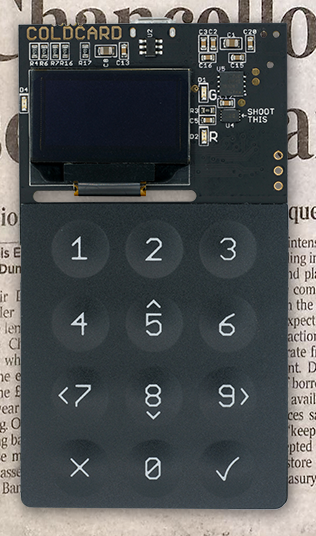
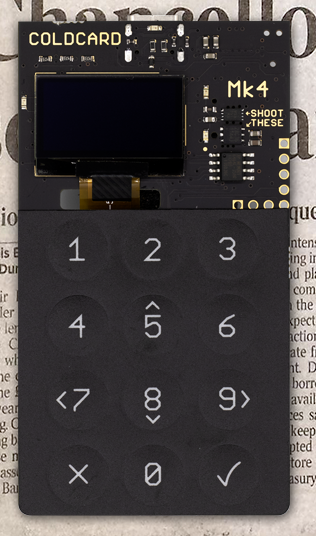
mk4 simulator look

diff --git a/unix/simulator.py b/unix/simulator.py
@@ -3,11 +3,14 @@
 # (c) Copyright 2018 by Coinkite Inc. This file is covered by license found in COPYING-CC.
 #
 # Simulate the hardware of a Coldcard. Particularly the OLED display (128x32) and 
-# the numberpad. 
+# the number pad. 
 #
 # This is a normal python3 program, not micropython. It communicates with a running
 # instance of micropython that simulates the micropython that would be running in the main
 # chip.
+#
+# Limitations:
+# - USB light not fully implemented, because happens at irq level on real product
 #
 import os, sys, tty, pty, termios, time, pdb, tempfile
 import subprocess
@@ -22,7 +25,7 @@ MPY_UNIX = 'l-port/micropython'
 UNIX_SOCKET_PATH = '/tmp/ckcc-simulator.sock'
 
 # top-left coord of OLED area; size is 1:1 with real pixels... 128x64 pixels
-OLED_ACTIVE = (50, 78)
+OLED_ACTIVE = (46, 85)
 
 # keypad touch buttons
 KEYPAD_LEFT = 52
@@ -47,7 +50,7 @@ class OLEDSimulator:
         self.mv = sdl2.ext.PixelView(self.sprite)
 
     def render(self, window, buf):
-        # take a full-screen update of the OLED contents and display
+        # do a full-screen update of the OLED contents and display
         assert len(buf) == 1024, len(buf)
 
         for y in range(0, 64, 8):
@@ -108,14 +111,14 @@ class OLEDSimulator:
 
 class BareMetal:
     #
-    # Use a real Coldcard device's bootrom and SE
+    # Use a real Coldcard device's bootrom and Secure Elements
     #
     def __init__(self, req_r, resp_w):
         self.open()
         self.request = open(req_r, 'rt', closefd=0)
         self.response = open(resp_w, 'wb', closefd=0, buffering=0)
 
-    def open(self, name='usbserial-FTD2MILQ'):
+    def open(self, name='usbserial-AQ00T1SJ'):
         # return a file-descriptor ready to be used for access to a real Coldcard's console I/O.
         # - assume only one coldcard
         import sys, serial
@@ -184,7 +187,7 @@ except:
 
     def read_sflash(self):
         # capture contents of SPI flash (settings area only: last 128k)
-        # XXX not working
+        # XXX not working, and not for Mk4
         self.sio.write(b'''\x05\
 busy(1)
 from main import sf
@@ -283,7 +286,9 @@ dis.fullscreen("BareMetal")
         assert not rv.startswith('===')
 
         if 1:
-            print(f"Callgate(method={method}, {len(buf_io) if buf_io else 0} bytes, arg2={arg2}) => rv={rv}")
+            # trace output
+            print(f"Callgate(method={method}, {len(buf_io) if buf_io else 0} bytes, "\
+                    f"arg2={arg2}) => rv={rv}")
 
         self.response.write(rv.encode('ascii') + b'\n')
     
@@ -301,10 +306,11 @@ def start():
     bg = factory.from_image("background.png")
     oled = OLEDSimulator(factory)
     
-    # for genuine/caution lights
+    # for genuine/caution lights and other LED's
     led_red = factory.from_image("led-red.png")
     led_green = factory.from_image("led-green.png")
     led_sdcard = factory.from_image("led-sd.png")
+    led_usb = factory.from_image("led-usb.png")
 
     window = sdl2.ext.Window("Coldcard Simulator", size=bg.size, position=(100, 100))
     window.show()
@@ -510,11 +516,16 @@ def start():
                     lset = c & 0xf
                     GEN_LED = 0x1
                     SD_LED = 0x2
+                    USB_LED = 0x4
+
+                    sd_active = usb_active = False
 
                     if mask & GEN_LED:
                         genuine_state = ((mask & lset) == GEN_LED)
                     if mask & SD_LED:
                         sd_active = ((mask & lset) == SD_LED)
+                    if mask & USB_LED:
+                        usb_active = ((mask & lset) == USB_LED)
 
                     #print("Genuine LED: %r" % genuine_state)
                     spriterenderer.render(bg)
@@ -522,6 +533,8 @@ def start():
                     spriterenderer.render(led_green if genuine_state else led_red)
                     if sd_active:
                         spriterenderer.render(led_sdcard)
+                    if usb_active:
+                        spriterenderer.render(led_usb)
 
                 window.refresh()
             else:

diff --git a/unix/variant/machine.py b/unix/variant/machine.py
@@ -1,21 +1,41 @@
 from mock import Mock
 
-Pin = Mock
-Pin.ALT = None
-Pin.PULL_NONE = None
-Pin.PULL_UP = None
-Pin.OUT_OD = None
-Pin.AF8_UART4 = None
-Pin.IN = None
-Pin.IRQ_FALLING = 1
-Pin.IRQ_RISING = 2
-Pin.irq = lambda a,b,c: None
-Pin.on = lambda s: None
-Pin.off = lambda s: None
-Pin.value = lambda *s: 0
+class Pin:
+    def __init__(self, name, *a, **kw):
+        self.name = name
+        self.cur_value = 0
+
+    def on(self):
+        self.value(1)
+    def off(self):
+        self.value(0)
+
+    def value(self, n=None):
+        if n is None: return self.cur_value
+        self.cur_value = int(n)
+
+        bm = 0
+        if self.name == 'SD_ACTIVE':
+            bm = 0x02
+        elif self.name == 'USB_ACTIVE':
+            bm = 0x04
+
+        if bm:
+            from ckcc import led_pipe
+            led_pipe.write(bytes([(bm << 4) | (bm if n else 0)]))
+
+    ALT = None
+    PULL_NONE = None
+    PULL_UP = None
+    OUT_OD = None
+    OUT = None
+    AF8_UART4 = None
+    IN = None
+    IRQ_FALLING = 1
+    IRQ_RISING = 2
+    irq = lambda a,b,c: None
 
 SPI = Mock
-
 UART = Mock
 UART.OUT = None
 

diff --git a/unix/variant/ckcc.py b/unix/variant/ckcc.py
@@ -17,12 +17,10 @@ rng_fd = open('/dev/urandom', 'rb')
 # Emulate the red/green LED
 import sys
 global genuine_led
-try:
-    led_pipe = open(int(sys.argv[3]), 'wb')
-    led_pipe.write(b'\x01')
-except:
-    pass
 genuine_led = True
+
+led_pipe = open(int(sys.argv[3]), 'wb')
+led_pipe.write(b'\xf0')     # all off
         
 # HACK: reduce size of heap in Unix simulator to be more similar to 
 # actual hardware, so we can enjoy those out-of-memory errors too!
@@ -87,7 +85,11 @@ def gate(method, buf_io, arg2):
         if arg2 == 1:
             # clear it
             genuine_led = False
-            led_pipe.write(bytes([0x10]))
+            led_pipe.write(b'\x10')
+        if arg2 == 3:
+            # real code would do checksum then go green
+            genuine_led = True
+            led_pipe.write(b'\x11')
         return 1 if genuine_led else 0
 
     if method == 5:
